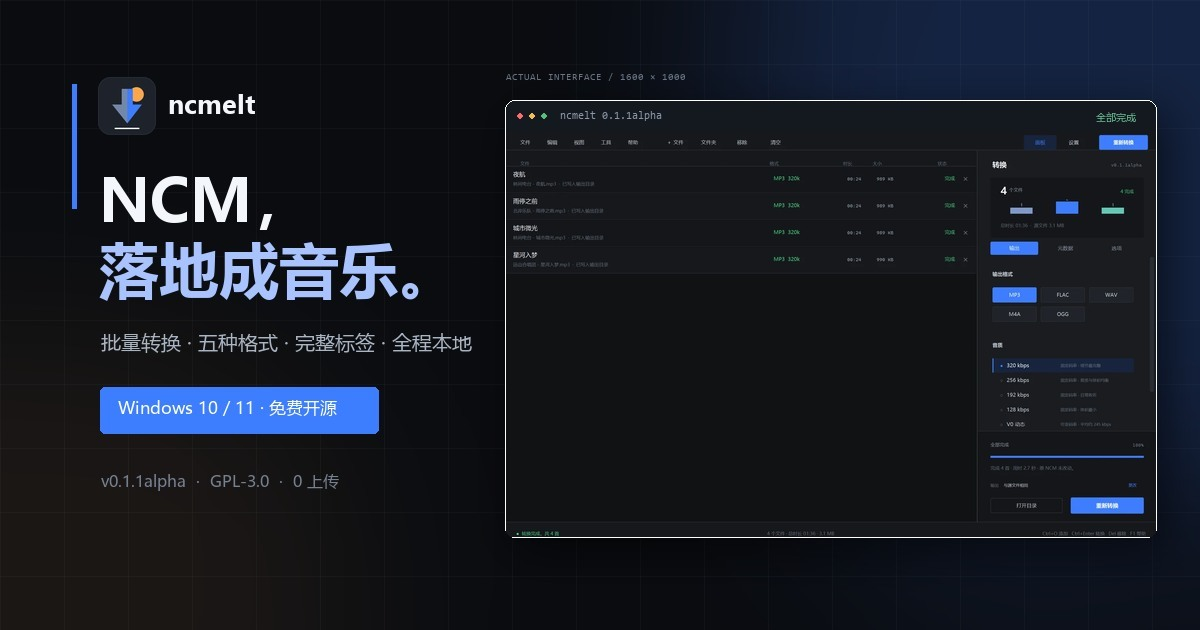
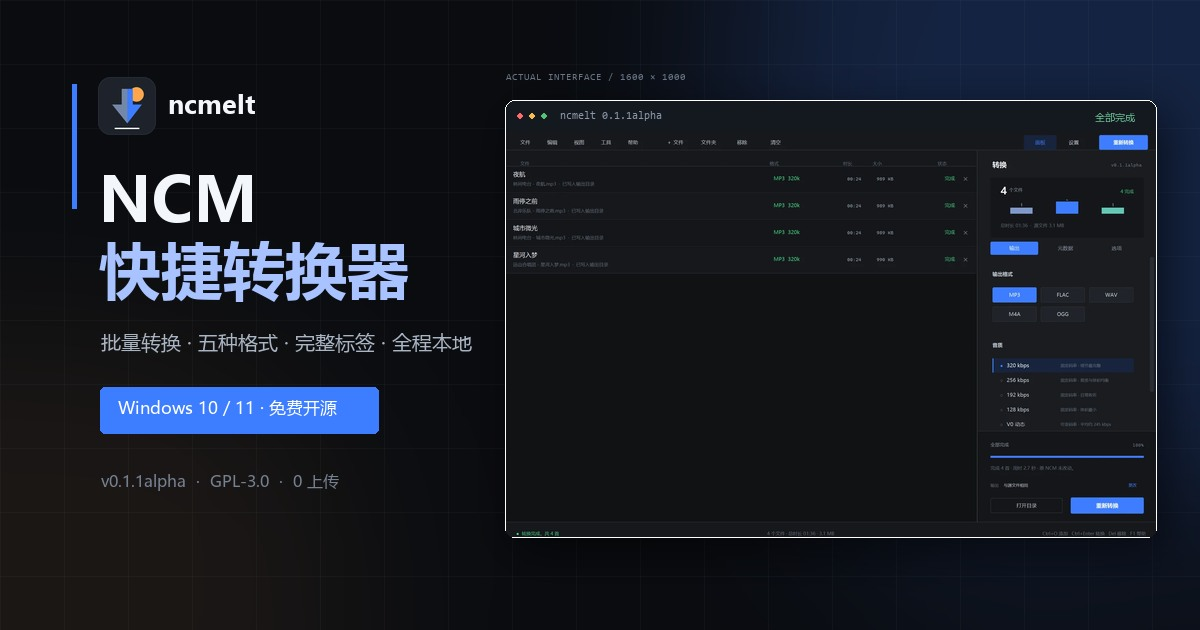
site: rename the main heading to NCM快捷转换器

Changed region(s): [[0.0617, 0.2714, 0.37, 0.4825], [0.925, 0.181, 0.9558, 0.2111]]

diff --git a/docs/index.html b/docs/index.html
@@ -3,8 +3,8 @@
 <head>
     <meta charset="utf-8">
     <meta name="viewport" content="width=device-width, initial-scale=1">
-    <title>ncmelt — 把网易云 NCM 变成真正能播放的音乐</title>
-    <meta name="description" content="ncmelt 是一个完全本地运行的 Windows NCM 转换器。把网易云下载的 .ncm 批量转换为 MP3、FLAC、WAV、M4A、OGG，支持全品质、元数据与封面，内置 FFmpeg，免费开源。">
+    <title>NCM快捷转换器 — 把网易云 NCM 变成真正能播放的音乐</title>
+    <meta name="description" content="NCM快捷转换器（ncmelt）是一个完全本地运行的 Windows NCM 转换器。把网易云下载的 .ncm 批量转换为 MP3、FLAC、WAV、M4A、OGG，支持全品质、元数据与封面，内置 FFmpeg，免费开源。">
     <meta name="keywords" content="ncm转换,网易云ncm,ncm转mp3,ncm转flac,ncmelt,音乐转换器,Windows">
     <meta name="author" content="11ly322">
     <meta name="theme-color" content="#0a0c10">
@@ -14,15 +14,15 @@
     <meta property="og:type" content="website">
     <meta property="og:locale" content="zh_CN">
     <meta property="og:site_name" content="ncmelt">
-    <meta property="og:title" content="ncmelt — 把 NCM 变成真正能播放的音乐">
+    <meta property="og:title" content="NCM快捷转换器 — 把 NCM 变成真正能播放的音乐">
     <meta property="og:description" content="批量转换 · 五种格式 · 完整标签 · 全程本地。Windows 10/11，免费开源。">
     <meta property="og:url" content="https://11ly322.github.io/ncmelt/">
     <meta property="og:image" content="https://11ly322.github.io/ncmelt/assets/og-image.jpg">
     <meta property="og:image:width" content="1200">
     <meta property="og:image:height" content="630">
-    <meta property="og:image:alt" content="ncmelt：把 NCM，变成真正能播放的音乐。">
+    <meta property="og:image:alt" content="NCM快捷转换器：把 NCM，变成真正能播放的音乐。">
     <meta name="twitter:card" content="summary_large_image">
-    <meta name="twitter:title" content="ncmelt — 把 NCM 变成真正能播放的音乐">
+    <meta name="twitter:title" content="NCM快捷转换器 — 把 NCM 变成真正能播放的音乐">
     <meta name="twitter:description" content="批量转换 · 五种格式 · 完整标签 · 全程本地。Windows 10/11，免费开源。">
     <meta name="twitter:image" content="https://11ly322.github.io/ncmelt/assets/og-image.jpg">
 
@@ -116,10 +116,10 @@
         <div class="container hero-grid">
             <div class="hero-copy">
                 <p class="eyebrow"><span class="eyebrow-dot"></span>v0.1.1alpha <span class="eyebrow-sep">/</span> Windows 10 &amp; 11</p>
-                <h1>NCM，<br><span class="hero-gradient">落地成音乐。</span></h1>
+                <h1>NCM<br><span class="hero-gradient">快捷转换器</span></h1>
                 <p class="hero-lead">
                     把网易云下载的 <code>.ncm</code> 变成真正能播放的
-                    <strong>MP3 / FLAC / WAV / M4A / OGG</strong>。批量、全品质、标签完整，
+                    <strong>MP3 / FLAC / WAV / M4A / OGG</strong>。<span class="nowrap">批量</span>、全品质、标签完整，
                     全程留在你的电脑里。
                 </p>
                 <div class="hero-actions">

diff --git a/docs/assets/site.css b/docs/assets/site.css
@@ -127,6 +127,10 @@ code {
     margin-inline: auto;
 }
 
+.nowrap {
+    white-space: nowrap;
+}
+
 .skip-link {
     position: fixed;
     z-index: 100;
